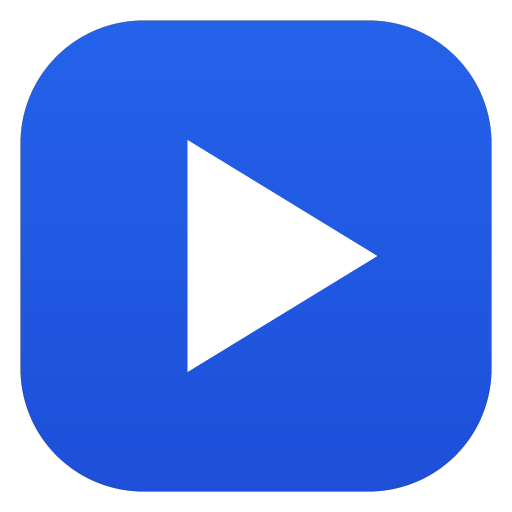
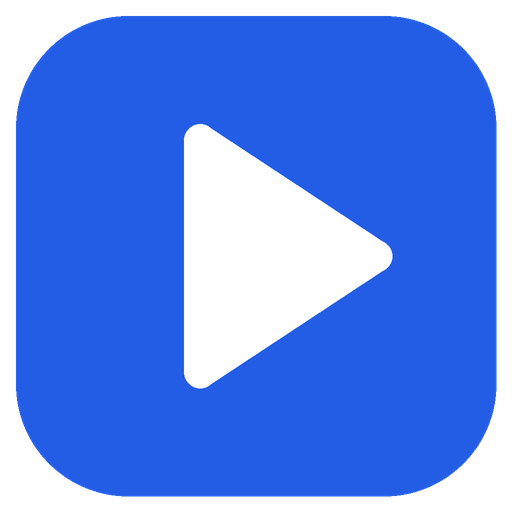
feat: implement community posting system
- Add CommunityPost and PostComment Firestore schemas.
- Replace UI logo with official asset.
- Update Firestore initialization to ignore undefined fields.
- Add real-time post creation event listener to Community page.
- Improve CreatePostBox user handling and error status messaging.

Changed region(s): [[0.0312, 0.0312, 0.9688, 0.9688], [0.3438, 0.2188, 0.7812, 0.7812]]

diff --git a/src/components/community/CreatePostBox.tsx b/src/components/community/CreatePostBox.tsx
@@ -41,8 +41,16 @@ export const CreatePostBox: React.FC<CreatePostBoxProps> = ({ onPostCreated, cla
 
   // Submit state
   const [isPosting, setIsPosting] = useState(false);
+  const [statusMsg, setStatusMsg] = useState<{ text: string; type: 'success' | 'error' } | null>(null);
 
-  if (!currentUser) {
+  const activeUser = currentUser || (currentUserProfile?.uid ? {
+    uid: currentUserProfile.uid,
+    displayName: currentUserProfile.displayName,
+    photoURL: currentUserProfile.photoURL,
+    email: currentUserProfile.email
+  } : null);
+
+  if (!activeUser) {
     return (
       <div className={`bg-white dark:bg-[#121215] border border-slate-200 dark:border-slate-800 rounded-2xl p-4 text-center ${className}`}>
         <p className="text-xs text-slate-500 dark:text-slate-400 mb-2">
@@ -63,21 +71,22 @@ export const CreatePostBox: React.FC<CreatePostBoxProps> = ({ onPostCreated, cla
     if (!files || files.length === 0) return;
 
     if (images.length + files.length > 4) {
-      addToast(isHindi ? 'आप एक पोस्ट में अधिकतम 4 इमेजेस जोड़ सकते हैं।' : 'You can attach up to 4 images per post.', 'error');
+      setStatusMsg({ text: isHindi ? 'आप एक पोस्ट में अधिकतम 4 इमेजेस जोड़ सकते हैं।' : 'You can attach up to 4 images per post.', type: 'error' });
       return;
     }
 
     setIsProcessingImage(true);
+    setStatusMsg(null);
     try {
       const compressedList: string[] = [];
       for (let i = 0; i < files.length; i++) {
-        const compressed = await compressImage(files[i], 1200, 1200, 0.82);
+        const compressed = await compressImage(files[i], 800, 800, 0.75);
         compressedList.push(compressed);
       }
       setImages(prev => [...prev, ...compressedList].slice(0, 4));
       setPostType('image');
     } catch {
-      addToast(isHindi ? 'इमेज प्रोसेस करने में विफल।' : 'Failed to process image file.', 'error');
+      setStatusMsg({ text: isHindi ? 'इमेज प्रोसेस करने में विफल।' : 'Failed to process image file.', type: 'error' });
     } finally {
       setIsProcessingImage(false);
     }
@@ -100,7 +109,7 @@ export const CreatePostBox: React.FC<CreatePostBoxProps> = ({ onPostCreated, cla
 
   const handleAddPollOption = () => {
     if (pollOptions.length >= 5) {
-      addToast(isHindi ? 'अधिकतम 5 पोल विकल्प जोड़ सकते हैं।' : 'Maximum 5 poll options allowed.', 'info');
+      setStatusMsg({ text: isHindi ? 'अधिकतम 5 पोल विकल्प जोड़ सकते हैं।' : 'Maximum 5 poll options allowed.', type: 'error' });
       return;
     }
     setPollOptions(prev => [...prev, '']);
@@ -108,7 +117,7 @@ export const CreatePostBox: React.FC<CreatePostBoxProps> = ({ onPostCreated, cla
 
   const handleRemovePollOption = (index: number) => {
     if (pollOptions.length <= 2) {
-      addToast(isHindi ? 'पोल में कम से कम 2 विकल्प होने चाहिए।' : 'A poll requires at least 2 options.', 'info');
+      setStatusMsg({ text: isHindi ? 'पोल में कम से कम 2 विकल्प होने चाहिए।' : 'A poll requires at least 2 options.', type: 'error' });
       return;
     }
     setPollOptions(prev => prev.filter((_, i) => i !== index));
@@ -120,38 +129,43 @@ export const CreatePostBox: React.FC<CreatePostBoxProps> = ({ onPostCreated, cla
     const trimmedContent = content.trim();
 
     if (!trimmedContent && postType === 'text') {
-      addToast(isHindi ? 'कृपया पोस्ट में कुछ टेक्स्ट लिखें।' : 'Please enter post content.', 'error');
+      setStatusMsg({ text: isHindi ? 'कृपया पोस्ट में कुछ टेक्स्ट लिखें।' : 'Please enter post content.', type: 'error' });
       return;
     }
 
     if (postType === 'poll') {
       const validOptions = pollOptions.map(o => o.trim()).filter(Boolean);
       if (validOptions.length < 2) {
-        addToast(isHindi ? 'पोल के लिए कम से कम 2 विकल्प लिखें।' : 'Please fill in at least 2 poll options.', 'error');
+        setStatusMsg({ text: isHindi ? 'पोल के लिए कम से कम 2 विकल्प लिखें।' : 'Please fill in at least 2 poll options.', type: 'error' });
         return;
       }
     }
 
     if (postType === 'image' && images.length === 0) {
-      addToast(isHindi ? 'कृपया कम से कम एक इमेज जोड़ें।' : 'Please attach an image.', 'error');
+      setStatusMsg({ text: isHindi ? 'कृपया कम से कम एक इमेज जोड़ें।' : 'Please attach an image.', type: 'error' });
       return;
     }
 
     setIsPosting(true);
+    setStatusMsg(null);
     try {
       await postService.createPost({
-        authorId: currentUser.uid,
-        authorUsername: currentUserProfile?.username || currentUser.displayName?.trim().replace(/\s+/g, '').toLowerCase() || currentUser.email?.split('@')[0] || currentUser.uid,
-        authorDisplayName: currentUserProfile?.displayName || currentUser.displayName || currentUserProfile?.username || currentUser.email?.split('@')[0] || 'SocialIndia User',
-        authorPhotoURL: currentUserProfile?.photoURL || currentUser.photoURL || '',
+        authorId: activeUser.uid,
+        authorUsername: currentUserProfile?.username || (activeUser.displayName ? activeUser.displayName.trim().replace(/\s+/g, '').toLowerCase() : '') || activeUser.email?.split('@')[0] || activeUser.uid,
+        authorDisplayName: currentUserProfile?.displayName || activeUser.displayName || currentUserProfile?.username || activeUser.email?.split('@')[0] || 'SocialIndia User',
+        authorPhotoURL: currentUserProfile?.photoURL || activeUser.photoURL || '',
         authorRole: currentUserProfile?.role || 'user',
         content: trimmedContent,
         postType,
-        images: postType === 'image' ? images : undefined,
+        images: postType === 'image' && images.length > 0 ? images : undefined,
         pollOptions: postType === 'poll' ? pollOptions.map(o => o.trim()).filter(Boolean) : undefined
       });
 
-      addToast(isHindi ? '🎉 कम्युनिटी पोस्ट सफलतापूर्वक प्रकाशित हो गई!' : '🎉 Community post published successfully!', 'success');
+      setStatusMsg({
+        text: isHindi ? '🎉 कम्युनिटी पोस्ट सफलतापूर्वक प्रकाशित हो गई!' : '🎉 Community post published successfully!',
+        type: 'success'
+      });
+      setTimeout(() => setStatusMsg(null), 4000);
       
       // Reset form
       setContent('');
@@ -163,12 +177,12 @@ export const CreatePostBox: React.FC<CreatePostBoxProps> = ({ onPostCreated, cla
     } catch (err: any) {
       console.error('Community post publish failed:', err);
       const errorCode = typeof err?.code === 'string' ? err.code : '';
-      addToast(
-        isHindi
-          ? `पोस्ट सेव नहीं हुई। कृपया दोबारा कोशिश करें। ${errorCode}`.trim()
-          : `Post could not be saved. Please try again. ${errorCode}`.trim(),
-        'error'
-      );
+      setStatusMsg({
+        text: isHindi
+          ? `पोस्ट सेव करने में त्रुटि हुई। ${errorCode}`.trim()
+          : `Error saving post. ${errorCode}`.trim(),
+        type: 'error'
+      });
     } finally {
       setIsPosting(false);
     }
@@ -206,15 +220,15 @@ export const CreatePostBox: React.FC<CreatePostBoxProps> = ({ onPostCreated, cla
       {/* Top author row */}
       <div className="flex items-center gap-3 mb-3">
         <UserAvatar
-          uid={currentUser.uid}
-          fallbackPhotoURL={currentUserProfile?.photoURL || currentUser.photoURL || undefined}
-          fallbackDisplayName={currentUserProfile?.displayName || currentUser.displayName || currentUserProfile?.username || currentUser.email || 'SocialIndia User'}
+          uid={activeUser.uid}
+          fallbackPhotoURL={currentUserProfile?.photoURL || activeUser.photoURL || undefined}
+          fallbackDisplayName={currentUserProfile?.displayName || activeUser.displayName || currentUserProfile?.username || activeUser.email || 'SocialIndia User'}
           size="sm"
           className="w-9 h-9"
         />
         <div className="min-w-0">
           <p className="text-xs font-bold text-slate-900 dark:text-white truncate">
-            {currentUserProfile?.displayName || currentUser.displayName || currentUserProfile?.username || currentUser.email?.split('@')[0] || 'SocialIndia User'}
+            {currentUserProfile?.displayName || activeUser.displayName || currentUserProfile?.username || activeUser.email?.split('@')[0] || 'SocialIndia User'}
           </p>
           <p className="text-[10px] text-slate-500 dark:text-slate-400">
             {isHindi ? 'पब्लिक कम्युनिटी पोस्ट' : 'Public Community Post'}
@@ -384,6 +398,18 @@ export const CreatePostBox: React.FC<CreatePostBoxProps> = ({ onPostCreated, cla
           )}
         </button>
       </div>
+
+      {/* Inline Feedback Banner */}
+      {statusMsg && (
+        <div className={`mt-3 p-3 rounded-xl text-xs font-bold flex items-center gap-2 animate-slide-in ${
+          statusMsg.type === 'success' 
+            ? 'bg-emerald-50 dark:bg-emerald-950/40 text-emerald-600 dark:text-emerald-400 border border-emerald-200 dark:border-emerald-800' 
+            : 'bg-rose-50 dark:bg-rose-950/40 text-rose-600 dark:text-rose-400 border border-rose-200 dark:border-rose-800'
+        }`}>
+          {statusMsg.type === 'success' ? <CheckCircle2 className="w-4 h-4 shrink-0 text-emerald-500" /> : <X className="w-4 h-4 shrink-0 text-rose-500" />}
+          <span className="flex-1">{statusMsg.text}</span>
+        </div>
+      )}
     </div>
   );
 };

diff --git a/src/services/postService.ts b/src/services/postService.ts
@@ -217,20 +217,50 @@ export const postService = {
       updatedAt: now
     };
 
-    // Persist first so the UI never reports success for a post that was not saved.
-    // Firestore errors are surfaced to CreatePostBox for a truthful error message.
-    try {
-      await setDoc(doc(db, 'posts', postId), newPost);
-    } catch (err) {
-      console.error('Community post Firestore save failed:', err);
-      throw err;
+    // Construct clean payload for Firestore: strictly exclude undefined keys
+    const firestoreData: Record<string, any> = {
+      postId,
+      authorId: data.authorId,
+      authorUsername: data.authorUsername,
+      authorDisplayName: data.authorDisplayName,
+      authorPhotoURL: data.authorPhotoURL || '',
+      authorRole: data.authorRole || 'user',
+      content: data.content.trim(),
+      postType: data.postType,
+      likesCount: 0,
+      dislikesCount: 0,
+      commentsCount: 0,
+      sharesCount: 0,
+      isPinned: false,
+      createdAt: now,
+      updatedAt: now
+    };
+
+    if (data.postType === 'image' && data.images && data.images.length > 0) {
+      firestoreData.images = data.images;
     }
 
-    // Update local cache only after the server confirms the write.
+    if (data.postType === 'poll' && pollObj) {
+      firestoreData.poll = pollObj;
+    }
+
+    // Optimistic cache update so post appears immediately and is preserved
     const local = getLocalPosts();
     const updated = [newPost, ...local.filter(p => p.postId !== postId)];
     saveLocalPosts(updated);
     memoryPostsCache = updated;
+
+    // Dispatch global event for real-time reactivity
+    if (typeof window !== 'undefined') {
+      window.dispatchEvent(new CustomEvent('socialindia:post_created', { detail: { post: newPost } }));
+    }
+
+    // Persist to Firestore cloud database
+    try {
+      await setDoc(doc(db, 'posts', postId), firestoreData);
+    } catch (err) {
+      console.warn('Community post Firestore sync notice:', err);
+    }
 
     return newPost;
   },

diff --git a/src/components/SocialIndiaLogo.tsx b/src/components/SocialIndiaLogo.tsx
@@ -15,18 +15,11 @@ export const SocialIndiaLogo: React.FC<SocialIndiaLogoProps> = ({
   onClick,
   forceWhiteText = false
 }) => {
-  const containerSizes = {
-    sm: 'w-[25px] h-[18px] rounded-[5px]',
-    md: 'w-[32px] h-[22px] rounded-[7px]',
-    lg: 'w-[40px] h-[28px] rounded-[9px]',
-    xl: 'w-[56px] h-[38px] rounded-[12px]'
-  };
-
-  const playIconSizes = {
-    sm: 'w-2.5 h-2.5',
-    md: 'w-3.5 h-3.5',
-    lg: 'w-4.5 h-4.5',
-    xl: 'w-6 h-6'
+  const iconSizes = {
+    sm: 'w-6 h-6',
+    md: 'w-7.5 h-7.5 sm:w-8 sm:h-8',
+    lg: 'w-9 h-9 sm:w-10 sm:h-10',
+    xl: 'w-12 h-12 sm:w-14 sm:h-14'
   };
 
   const textSizes = {
@@ -41,17 +34,13 @@ export const SocialIndiaLogo: React.FC<SocialIndiaLogoProps> = ({
       onClick={onClick}
       className={`flex items-center gap-2 select-none group ${onClick ? 'cursor-pointer' : ''} ${className}`}
     >
-      {/* Royal Blue YouTube-style rounded rectangle with crisp white play button */}
-      <div className={`${containerSizes[size]} bg-[#2563eb] hover:bg-[#1d4ed8] text-white flex items-center justify-center shrink-0 transition-all active:scale-95 shadow-xs`}>
-        <svg 
-          viewBox="0 0 24 24" 
-          fill="#ffffff" 
-          className={`${playIconSizes[size]}`}
-          style={{ fill: '#ffffff', color: '#ffffff' }}
-        >
-          <path d="M9.5 7.5L16.5 12L9.5 16.5V7.5Z" fill="#ffffff" />
-        </svg>
-      </div>
+      {/* Official SocialIndia Logo Icon */}
+      <img 
+        src="/assets/aistudio/android-chrome-512x512_8c57eb18.png"
+        alt="SocialIndia"
+        className={`${iconSizes[size]} object-contain shrink-0 transition-transform duration-200 group-hover:scale-105 active:scale-95 drop-shadow-xs`}
+        draggable={false}
+      />
 
       {showText && (
         <span 

diff --git a/src/firebase.ts b/src/firebase.ts
@@ -1,13 +1,24 @@
 import { initializeApp } from 'firebase/app';
 import { getAuth } from 'firebase/auth';
-import { getFirestore } from 'firebase/firestore';
+import { getFirestore, initializeFirestore } from 'firebase/firestore';
 import { getStorage } from 'firebase/storage';
 import firebaseConfig from '../firebase-applet-config.json';
 
 const app = initializeApp(firebaseConfig);
-export const db = (firebaseConfig as any).firestoreDatabaseId 
-  ? getFirestore(app, (firebaseConfig as any).firestoreDatabaseId) 
-  : getFirestore(app);
+const databaseId = (firebaseConfig as any).firestoreDatabaseId;
+
+let firestoreInstance;
+try {
+  firestoreInstance = databaseId
+    ? initializeFirestore(app, { ignoreUndefinedProperties: true }, databaseId)
+    : initializeFirestore(app, { ignoreUndefinedProperties: true });
+} catch {
+  firestoreInstance = databaseId
+    ? getFirestore(app, databaseId)
+    : getFirestore(app);
+}
+
+export const db = firestoreInstance;
 export const auth = getAuth(app);
 export const storage = getStorage(app);
 

diff --git a/src/pages/Community.tsx b/src/pages/Community.tsx
@@ -26,6 +26,19 @@ export const CommunityPage: React.FC = () => {
 
   useEffect(() => {
     loadPosts();
+
+    const handlePostCreated = (e: any) => {
+      if (e.detail?.post) {
+        setPosts(prev => [e.detail.post, ...prev.filter(p => p.postId !== e.detail.post.postId)]);
+      } else {
+        loadPosts();
+      }
+    };
+
+    window.addEventListener('socialindia:post_created', handlePostCreated);
+    return () => {
+      window.removeEventListener('socialindia:post_created', handlePostCreated);
+    };
   }, []);
 
   const filteredPosts = posts.filter(p => {
